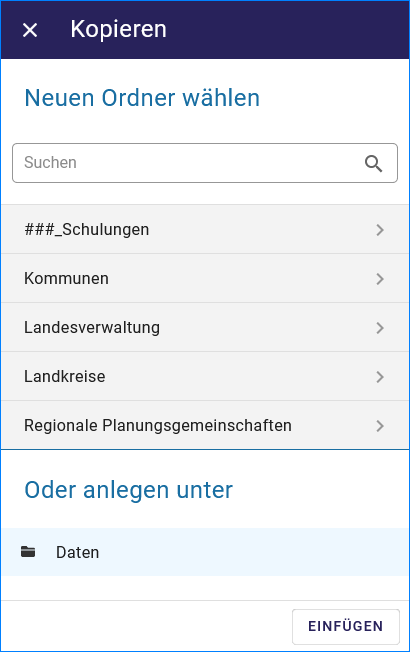
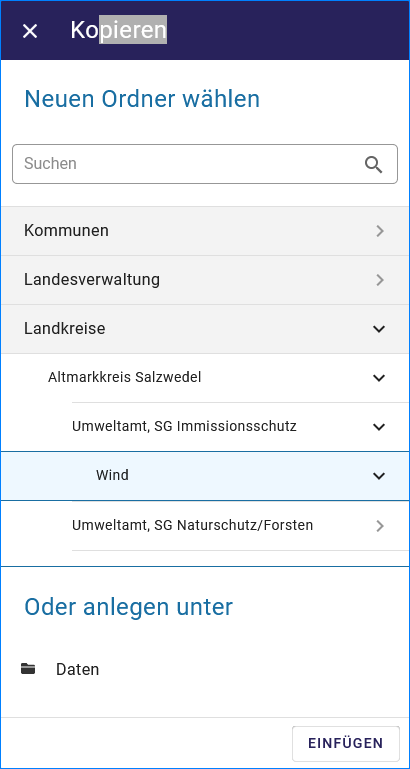
Aktualisierung

diff --git a/docs/uvp-verfahren/ige-ng_adressen-oder-verfahren-bearbeiten.rst b/docs/uvp-verfahren/ige-ng_adressen-oder-verfahren-bearbeiten.rst
@@ -45,6 +45,11 @@ Zum Kopieren eines Verfahrens oder einer Adresse markieren Sie das Verfahren / d
 .. image:: ../img-ige-ng/bearbeiten/ige-ng_bearbeiten_symbolleiste.png
    :width: 300
 
+Abb.: Symbolleiste
+
+.. image:: ../img-ige-ng/bearbeiten/ige-ng_bearbeiten_kopieren.png
+   :width: 300
+
 Abb.: Symbolleiste - Verfahren/Adressen kopieren
 
 Es öffnet sich das Fenster Kopieren. Hier einen Ordner wählen unter dem der Datensatz eingefügt werden soll, dann den Vorgang mit "EINFÜGEN" abschließen.
